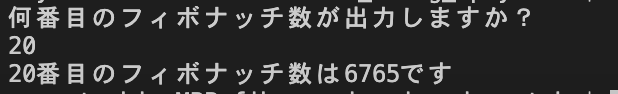
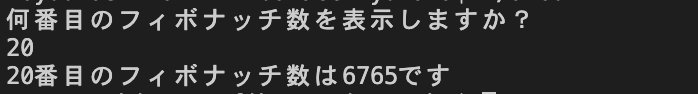
Summary

diff --git a/dynamic_programming/fibonacci/fibonacci.c b/dynamic_programming/fibonacci/fibonacci.c
@@ -12,7 +12,7 @@ int fib(int n){
 int main(void){
     int number;
 
-    printf("何番目のフィボナッチ数が出力しますか？\n");
+    printf("何番目のフィボナッチ数を表示しますか？\n");
     scanf("%d", &number);
 
     printf("%d番目のフィボナッチ数は%dです\n", number, fib(number));
